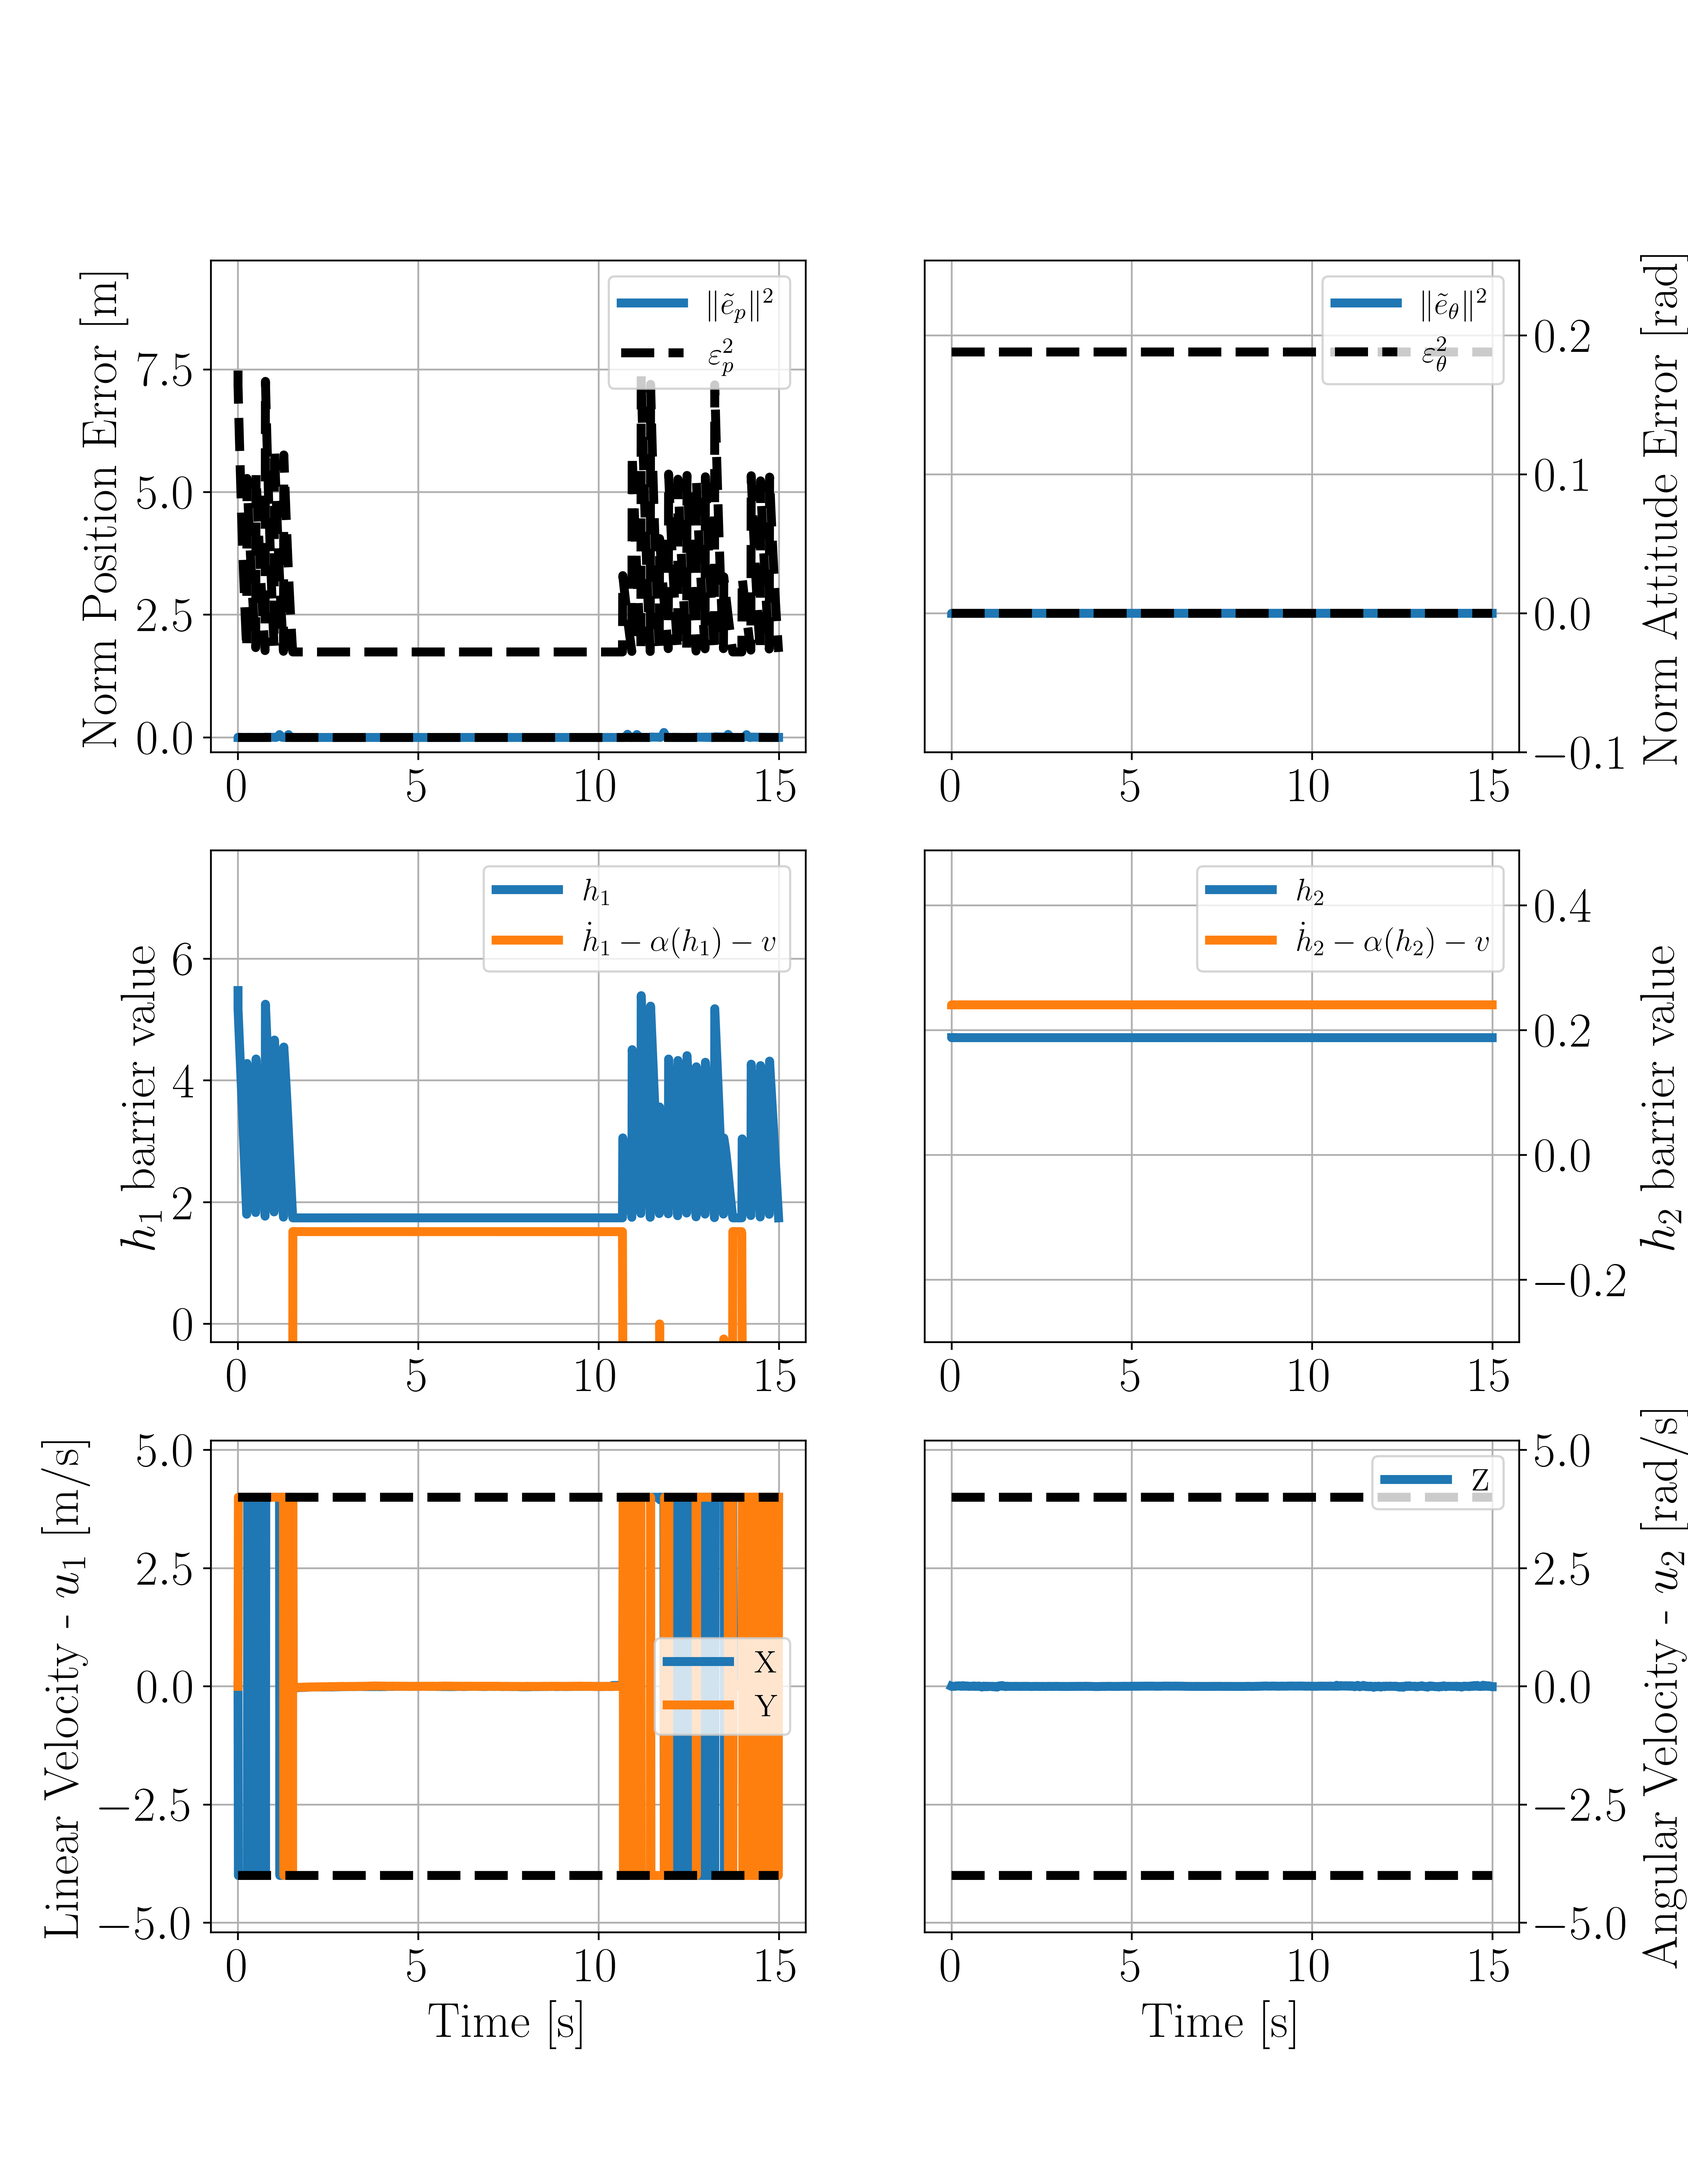
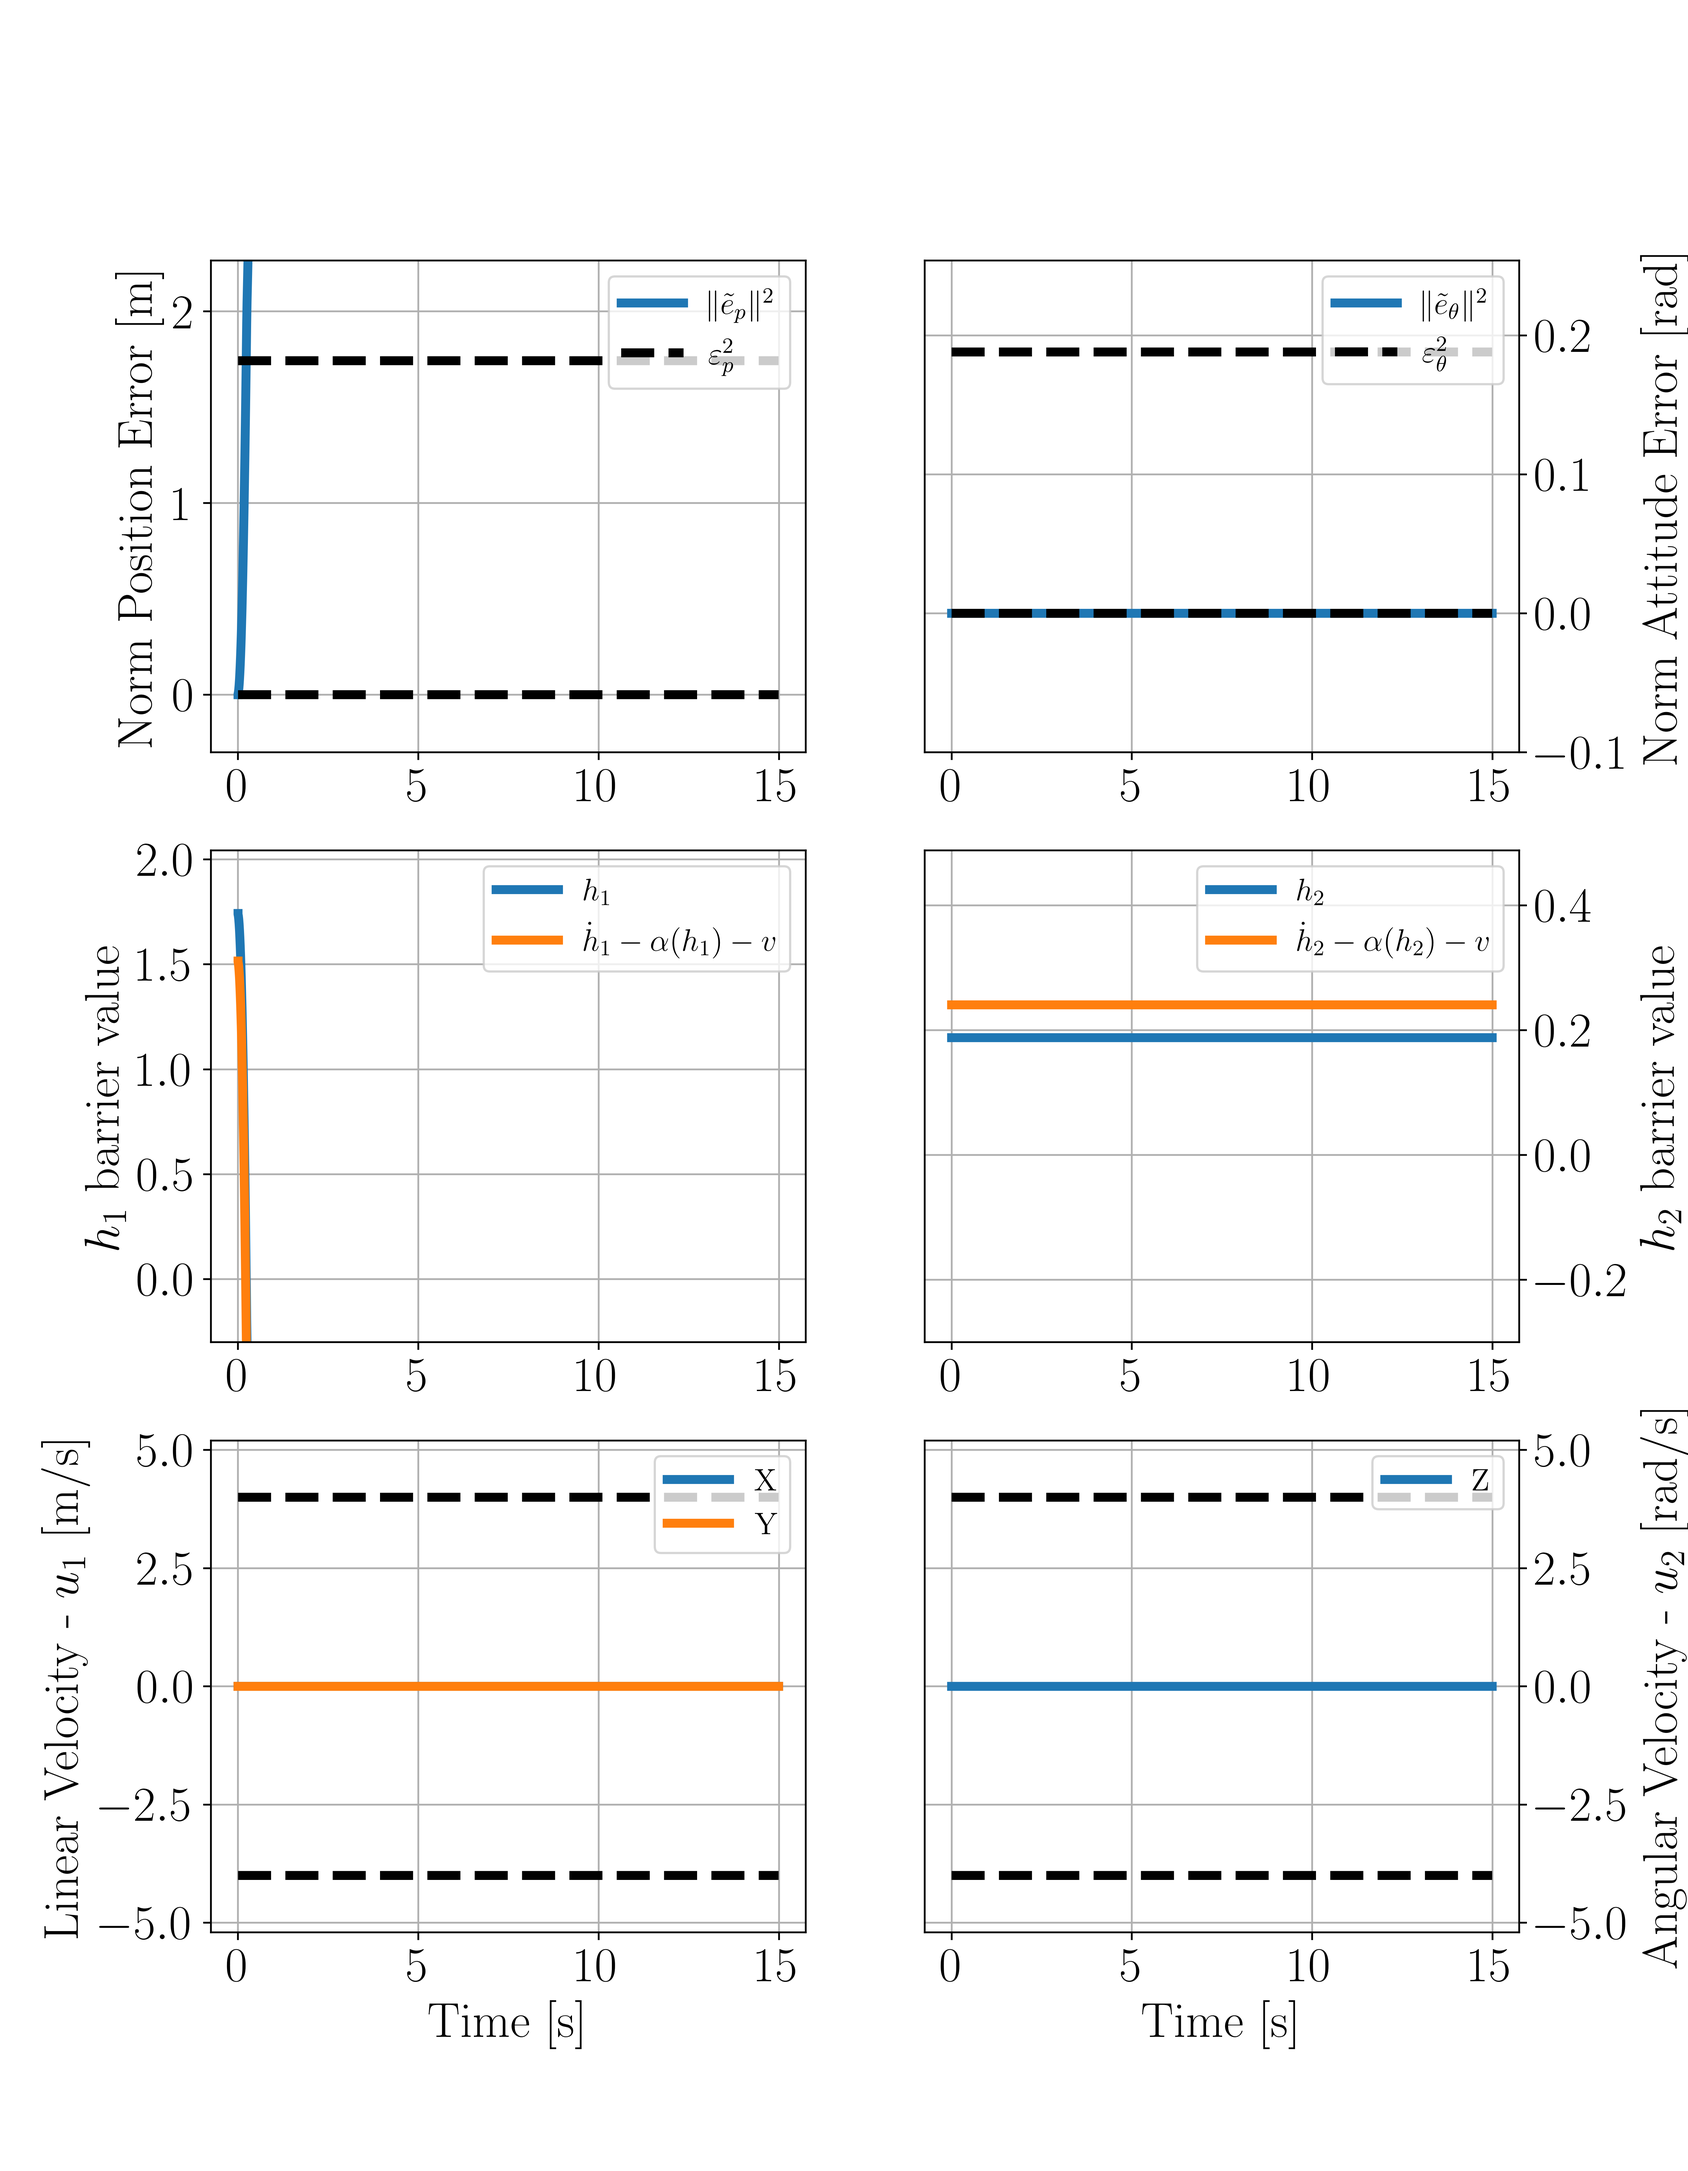
broken jacobian of g now, going back into the past

diff --git a/src/corridor_mpc/controllers/corridor_mpc.py b/src/corridor_mpc/controllers/corridor_mpc.py
@@ -131,6 +131,7 @@ class CorridorMPC(object):
         con_eq.append(opt_var['x', 0] - x0)
 
         # Generate MPC Problem
+        con_ineq_idx = 0
         for t in range(self.Nt):
             # Get variables
             x_t = opt_var['x', t]
@@ -145,20 +146,28 @@ class CorridorMPC(object):
             # Input constraints
             if hasattr(self, 'uub'):
                 con_ineq.append(u_t)
+                con_ineq_idx += u_t.shape[0]
+                if verbose: print("con_ineq_idx (uub): ", con_ineq_idx)
                 con_ineq_ub.append(self.uub)
                 con_ineq_lb.append(np.full((self.Nu,), -ca.inf))
             if hasattr(self, 'ulb'):
                 con_ineq.append(u_t)
+                con_ineq_idx += u_t.shape[0]
+                if verbose: print("con_ineq_idx (ulb): ", con_ineq_idx)
                 con_ineq_ub.append(np.full((self.Nu,), ca.inf))
                 con_ineq_lb.append(self.ulb)
 
             # State constraints
             if hasattr(self, 'xub'):
                 con_ineq.append(x_t)
+                con_ineq_idx += x_t.shape[0]
+                if verbose: print("con_ineq_idx (xub): ", con_ineq_idx)
                 con_ineq_ub.append(self.xub)
                 con_ineq_lb.append(np.full((self.Nx,), -ca.inf))
             if hasattr(self, 'xlb'):
                 con_ineq.append(x_t)
+                con_ineq_idx += x_t.shape[0]
+                if verbose: print("con_ineq_idx (xlb): ", con_ineq_idx)
                 con_ineq_ub.append(np.full((self.Nx,), ca.inf))
                 con_ineq_lb.append(self.xlb)
 
@@ -174,13 +183,19 @@ class CorridorMPC(object):
                     print(hq_ineq)
 
                 con_ineq.append(hp_ineq)
+                con_ineq_idx += hp_ineq.shape[0]
+                if verbose: print("con_ineq_idx (zcbf1): ", con_ineq_idx)
                 con_ineq_lb.append(0)
                 con_ineq_ub.append(ca.inf)
 
                 con_ineq.append(hq_ineq)
+                con_ineq_idx += hq_ineq.shape[0]
+                if verbose: print("con_ineq_idx (zcbf2): ", con_ineq_idx)
                 con_ineq_lb.append(0)
                 con_ineq_ub.append(ca.inf)
                 pass
+
+            if verbose: print("con_ineq_idx: ", con_ineq_idx)
 
             # Objective Function / Cost Function
             obj += self.running_cost(x_t, x_r, self.Q, u_t - u_r, self.R)
@@ -213,6 +228,13 @@ class CorridorMPC(object):
         self.solver = self.solver_dict[self.solver_type]
 
         build_solver_time += time.time()
+
+        if verbose: print(self.solver)
+        if verbose: print("con_ineq: ", ca.vertcat(*con_ineq))
+        if verbose:
+            for i in range(ca.vertcat(*con_ineq).shape[0]):
+                print("jac [",i,"]: ", ca.jacobian(ca.vertcat(*con_ineq)[i],opt_var))
+
         if verbose:
             print('\n________________________________________')
             print('# Receding horizon length: %d ' % self.Nt)
@@ -397,6 +419,21 @@ class CorridorMPC(object):
 
         return optvar['x'], optvar['u']
 
+    def get_reference(self, t0):
+        # Generate trajectory from t0 and x0
+        if self.trajs is None:
+            x_sp_vec = self.model.get_trajectory(t0, self.Nt + 1)
+            u_sp_vec = self.model.get_constant_u_sp(self.Nt)
+        else:
+            x_sp_vec, u_sp_vec = self.model.get_trajectory_waypoints(t0, self.Nt+1, self.trajs)
+        
+        ref = x_sp_vec[:, 0]
+        x_sp = x_sp_vec.reshape(self.Nx * (self.Nt + 1), order='F')
+        u_sp = u_sp_vec.reshape(self.Nu * self.Nt, order='F')
+        # print("x_sp_vec: ", np.shape(x_sp_vec))
+        # print("u_sp_vec:" , np.shape(u_sp_vec))
+        return x_sp_vec, u_sp_vec, ref, x_sp, u_sp
+
     def solve(self, x0, t0):
         """
         CMPC interface.
@@ -408,23 +445,12 @@ class CorridorMPC(object):
         :return: first control input
         :rtype: ca.DM
         """
-        # Generate trajectory from t0 and x0
-        if self.trajs is None:
-            x_sp_vec = self.model.get_trajectory(t0, self.Nt + 1)
-            u_sp_vec = self.model.get_constant_u_sp(self.Nt)
-        else:
-            x_sp_vec, u_sp_vec = self.model.get_trajectory_waypoints(t0, self.Nt+1, self.trajs)
-        
-        # print("x_sp_vec: ", np.shape(x_sp_vec))
-        # print("u_sp_vec:" , np.shape(u_sp_vec))
+        x_sp_vec, u_sp_vec, ref, x_sp, u_sp = self.get_reference(t0)
     
         # based on the time, construct a new problem because we have new CBF functions
         idx = self.get_idx_from_time(t0)
         self.create_solver(cbf_idx=idx)
-
-        ref = x_sp_vec[:, 0]
-        x_sp = x_sp_vec.reshape(self.Nx * (self.Nt + 1), order='F')
-        u_sp = u_sp_vec.reshape(self.Nu * self.Nt, order='F')
+        
         self.set_reference(x_sp, u_sp)
 
         x_pred, u_pred = self.solve_mpc(t0,x0)

diff --git a/src/corridor_mpc/simulation_trajectory.py b/src/corridor_mpc/simulation_trajectory.py
@@ -5,6 +5,7 @@ from __future__ import print_function
 import numpy as np
 import matplotlib as mpl
 import matplotlib.pyplot as plt
+import itertools
 
 from matplotlib import rc
 try:
@@ -81,11 +82,35 @@ class EmbeddedSimEnvironment(object):
             t0 = i*self.dt
             idx = self.corridor_mpc.get_idx_from_time(t0)
 
+            # before solving the MPC we want to see whether we can adhere to it
+            # a(x)u + b(x) >= 0 so an affine operation, we can just check the min max of u
+            _, _, ref, _, _ = self.corridor_mpc.get_reference(t0)
+            u_test = np.zeros((self.Nu,1))
+            combinations = list(itertools.product([-self.model.max_v,self.model.max_v], repeat=self.Nu))
+
+            for idx, combination in enumerate(combinations):
+                u_test = np.array(combination)
+                hp_c_test, hq_c_test = self.model.get_barrier_constraint_value(t0,
+                                                                               x.reshape(self.Nx,1),
+                                                                               ref.reshape(self.Nx,1),
+                                                                               u_test,
+                                                                               cbf_idx=idx)
+                if hp_c_test >= 0 and hq_c_test >= 0:
+                    print("--- barrier satisfiable ---")
+                    # print("--- u: ", u_test)
+                    # print("--- hp_c: ", hp_c_test, "   hq_c: ", hq_c_test)
+                    break
+                if idx == len(combinations)-1:
+                    print("--- barrier unsatisfiable ---")
+                    break
+
+
             # Get control input and obtain next state
             u, ref, pred_x, pred_ref = self.corridor_mpc.solve(x, t0)
 
             # Convert data to numpy array and collect barrier values
             u = np.asarray(u).reshape(3, 1)
+            # print("--- obtained u: ", u.T)
 
             hp_c, hq_c = self.model.get_barrier_constraint_value(t0,
                                                                  x.reshape(self.Nx, 1),
@@ -389,6 +414,8 @@ class EmbeddedSimEnvironment(object):
         ax1.plot(t,ref_vec[0,:],'r--')
         ax1.plot(t,y_vec[1,:],'b')
         ax1.plot(t,ref_vec[1,:],'b--')
+        # ax1.plot(t,self.model.trajectory_set[0,0:-30],'g')
+        # ax1.plot(t,self.model.trajectory_set[1,0:-30],'g--')
         ax1.legend([r"$x$", r"$x_{ref}$",r"$y$", r"$y_{ref}$"], loc="upper right")
         ax1.set_ylabel("{Position [m]}")
         ax6.set_xlabel("Time [s]")

diff --git a/scripts/run_tracking.py b/scripts/run_tracking.py
@@ -9,7 +9,7 @@ from corridor_mpc.simulation_trajectory import EmbeddedSimEnvironment
 # Trajectory from Robust STL
 with open("mp_data/prob1_export.pkl",'rb') as f:
     cbfs,trajs = pickle.load(f)
-# cbfs = None
+cbfs = None
 # trajs = None
     
 # Sim and MPC Params
@@ -39,7 +39,7 @@ abee.set_trajectory(length=SIM_TIME, start=xr0)
 sim_env_full = EmbeddedSimEnvironment(model=abee,
                                       dynamics=abee.model,
                                       cmpc=ctl,
-                                      noise={"pos": 0.1, "att": 0.1},
+                                      noise={"pos": 0.0, "att": 0.0},
                                       time=SIM_TIME, collect=True,
                                       animate=False)
 

diff --git a/src/corridor_mpc/models/ff_kinematics.py b/src/corridor_mpc/models/ff_kinematics.py
@@ -449,7 +449,7 @@ class FreeFlyerKinematics(object):
             # self.hp(p, pr, v, vr) - self.eps_p - self.eps_v
             e1 = self.h1(p,pr)
             # self.hq(q, qr, w, wr) - self.eps_q - self.eps_w
-            e2 = self.h2(p,pr)
+            e2 = self.h2(t,tr)
         else:
             # self.hp(p, pr, v, vr) - self.eps_p - self.eps_v
             e1 = self.h1[cbf_idx](t0,p,pr)
